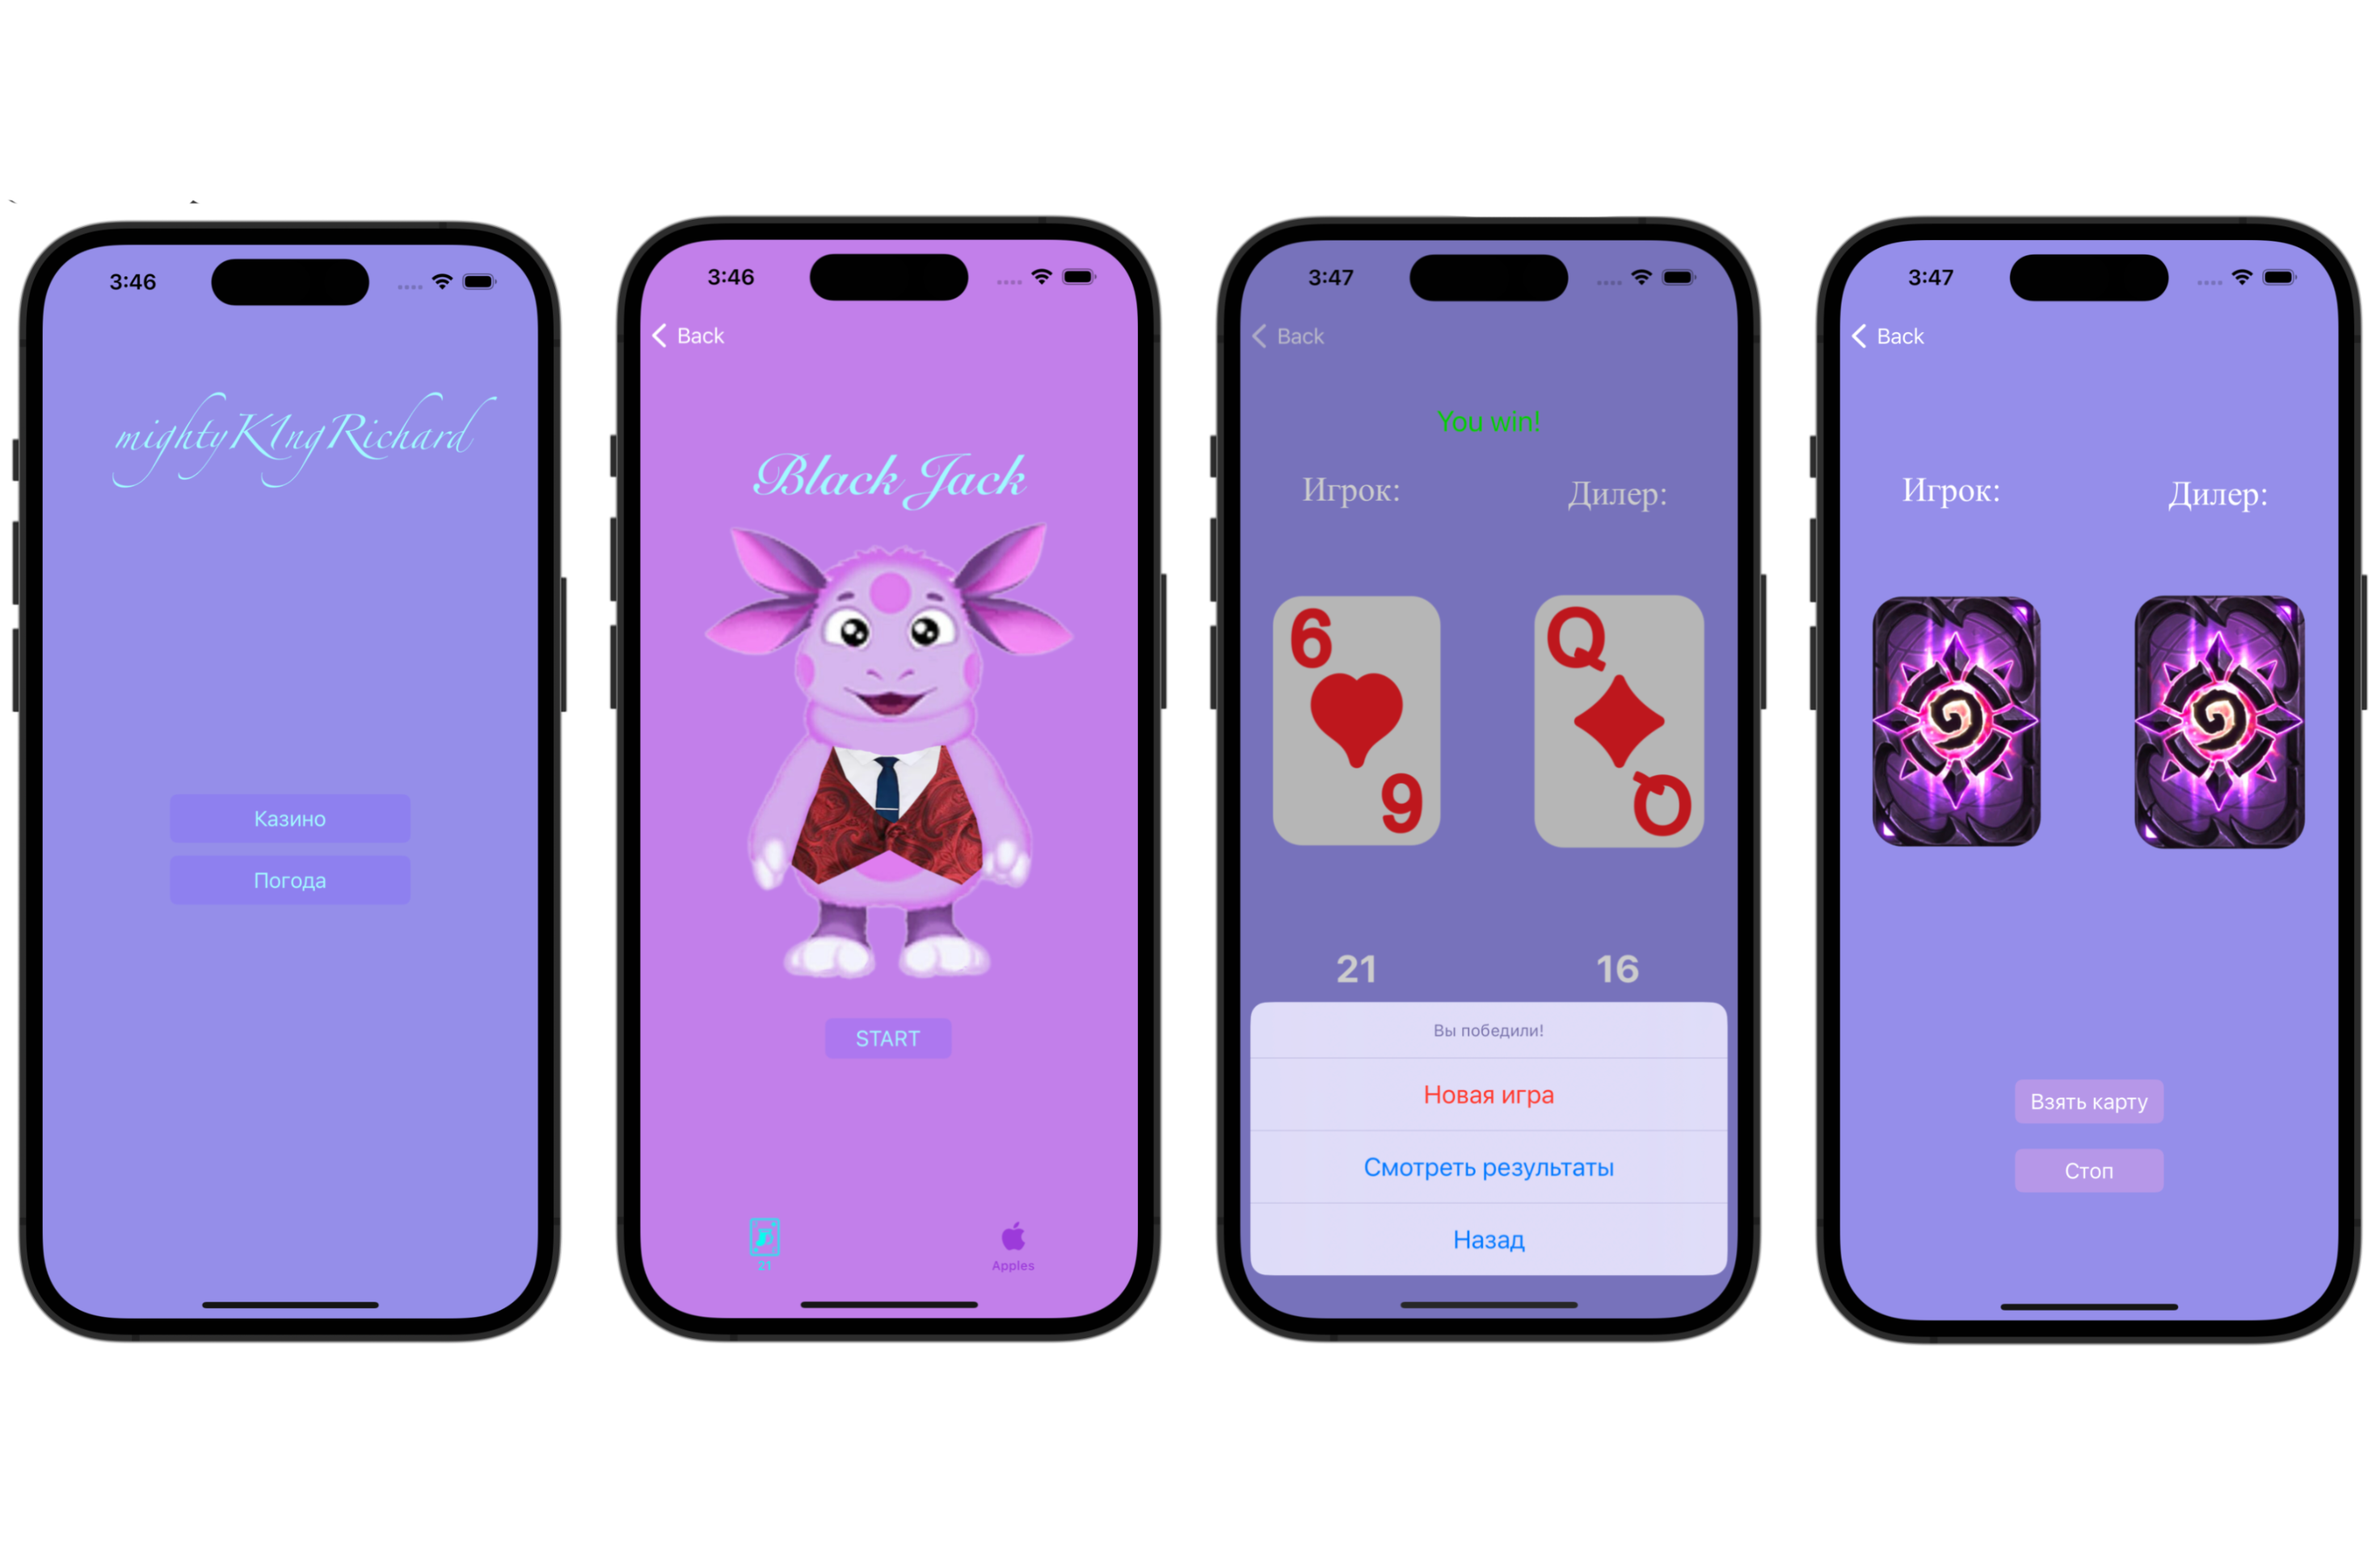
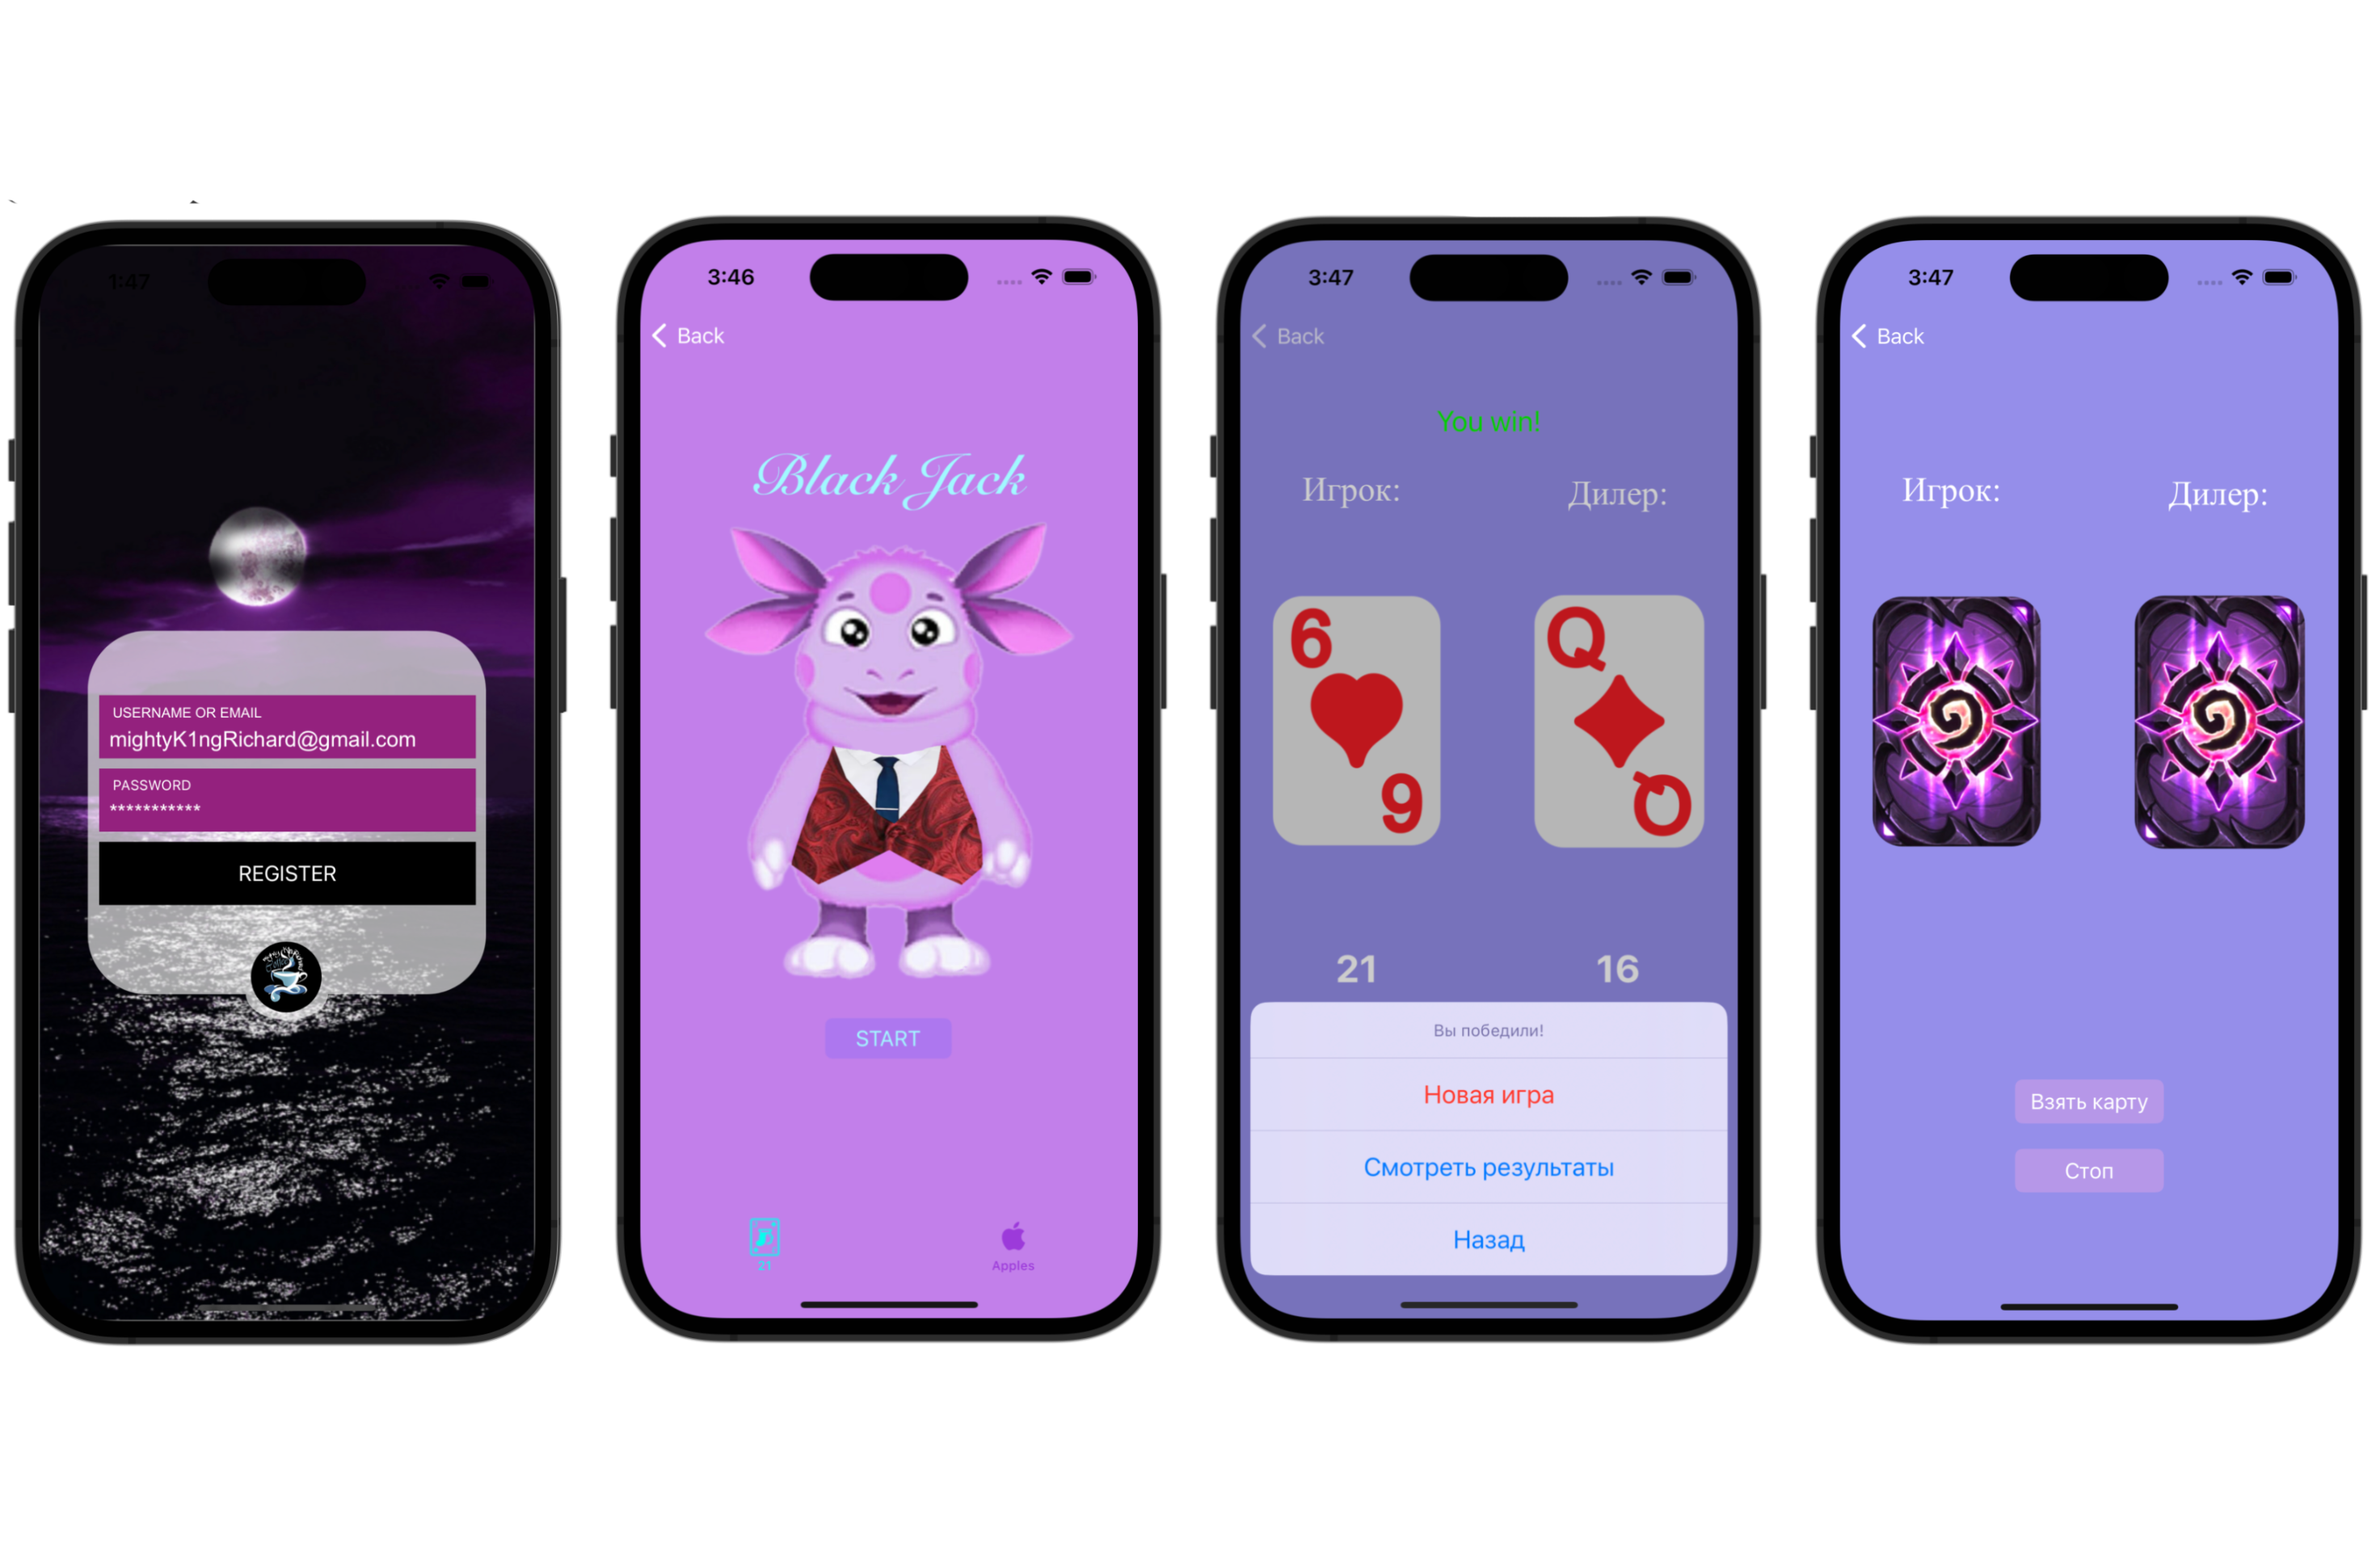
Add the authorisation

Changed region(s): [[0.0, 0.1543, 0.2476, 0.8949]]

diff --git a/BlackJackGame/ViewControllers/AuthViewController.swift b/BlackJackGame/ViewControllers/AuthViewController.swift
@@ -1,0 +1,42 @@
+//
+//  AuthViewController.swift
+//  BlackJackGame
+//
+//  Created by Дмитрий Пермяков on 12.02.2023.
+//
+
+import UIKit
+
+class AuthViewController: UIViewController {
+
+    @IBOutlet weak var loginLabel: insertableTextField!
+    @IBOutlet weak var passwordLabel: insertableTextField!
+    @IBOutlet weak var registerLabel: UIButton!
+    
+    override func viewDidLoad() {
+        super.viewDidLoad()
+    }
+    
+    @IBAction func pressLogin(_ sender: Any) {
+        loginLabel.text = ""
+    }
+    
+    @IBAction func pressPassword(_ sender: Any) {
+        passwordLabel.text = ""
+    }
+    
+    @IBAction func pressPasswordDid(_ sender: Any) {
+        print(passwordLabel.text ?? "")
+    }
+    
+    @IBAction func pressLoginDid(_ sender: Any) {
+        print(loginLabel.text ?? "")
+    }
+    
+    @IBAction func pressRegister(_ sender: Any) {
+        // TODO: - сделать проверку пароля.
+        print(loginLabel.text ?? "")
+        print(passwordLabel.text ?? "")
+        performSegue(withIdentifier: "goToStartMenuFromAuth", sender: nil)
+    }
+}

diff --git a/Authorisation/insertableTextField.swift b/Authorisation/insertableTextField.swift
@@ -1,0 +1,25 @@
+//
+//  insertableTextField.swift
+//  BlackJackGame
+//
+//  Created by Дмитрий Пермяков on 12.02.2023.
+//
+
+import UIKit
+
+class insertableTextField: UITextField {
+    override func layoutSubviews() {
+        super.layoutSubviews()
+        self.layer.borderWidth = 1
+        self.layer.borderColor = #colorLiteral(red: 0.5501983762, green: 0.1330439448, blue: 0.4679858685, alpha: 0.4866699219)
+    }
+    
+    override func textRect(forBounds bounds: CGRect) -> CGRect {
+        return bounds.insetBy(dx: 8, dy: 6)
+    }
+    
+    override func editingRect(forBounds bounds: CGRect) -> CGRect {
+        return textRect(forBounds: bounds)
+    }
+}
+

diff --git a/BlackJackGame/ViewControllers/WeatherViewController.swift b/BlackJackGame/ViewControllers/WeatherViewController.swift
@@ -19,7 +19,6 @@ class WeatherViewController: UIViewController {
             DispatchQueue.main.async { [weak self] in
                 guard let self else { return }
                 if let temperature = data?.main.temp {
-                    print(temperature - 273.15)
                     self.temperatureLabel.text = "\(Int(round(temperature - 273.15))) ºC"
                 } else {
                     self.temperatureLabel.text = "Не известно"
